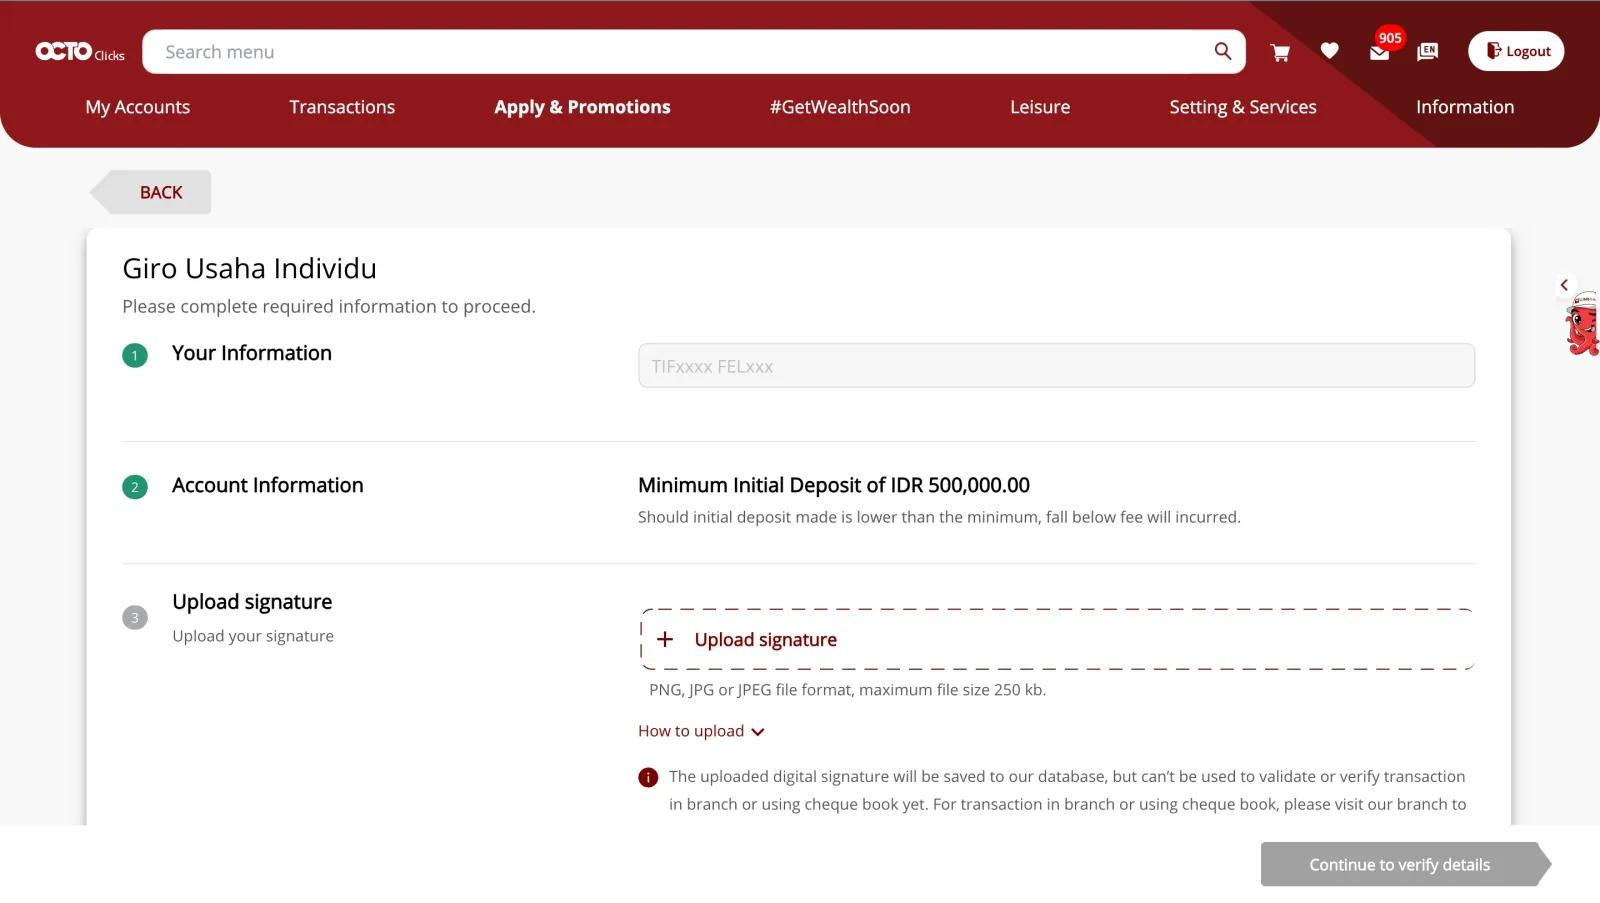
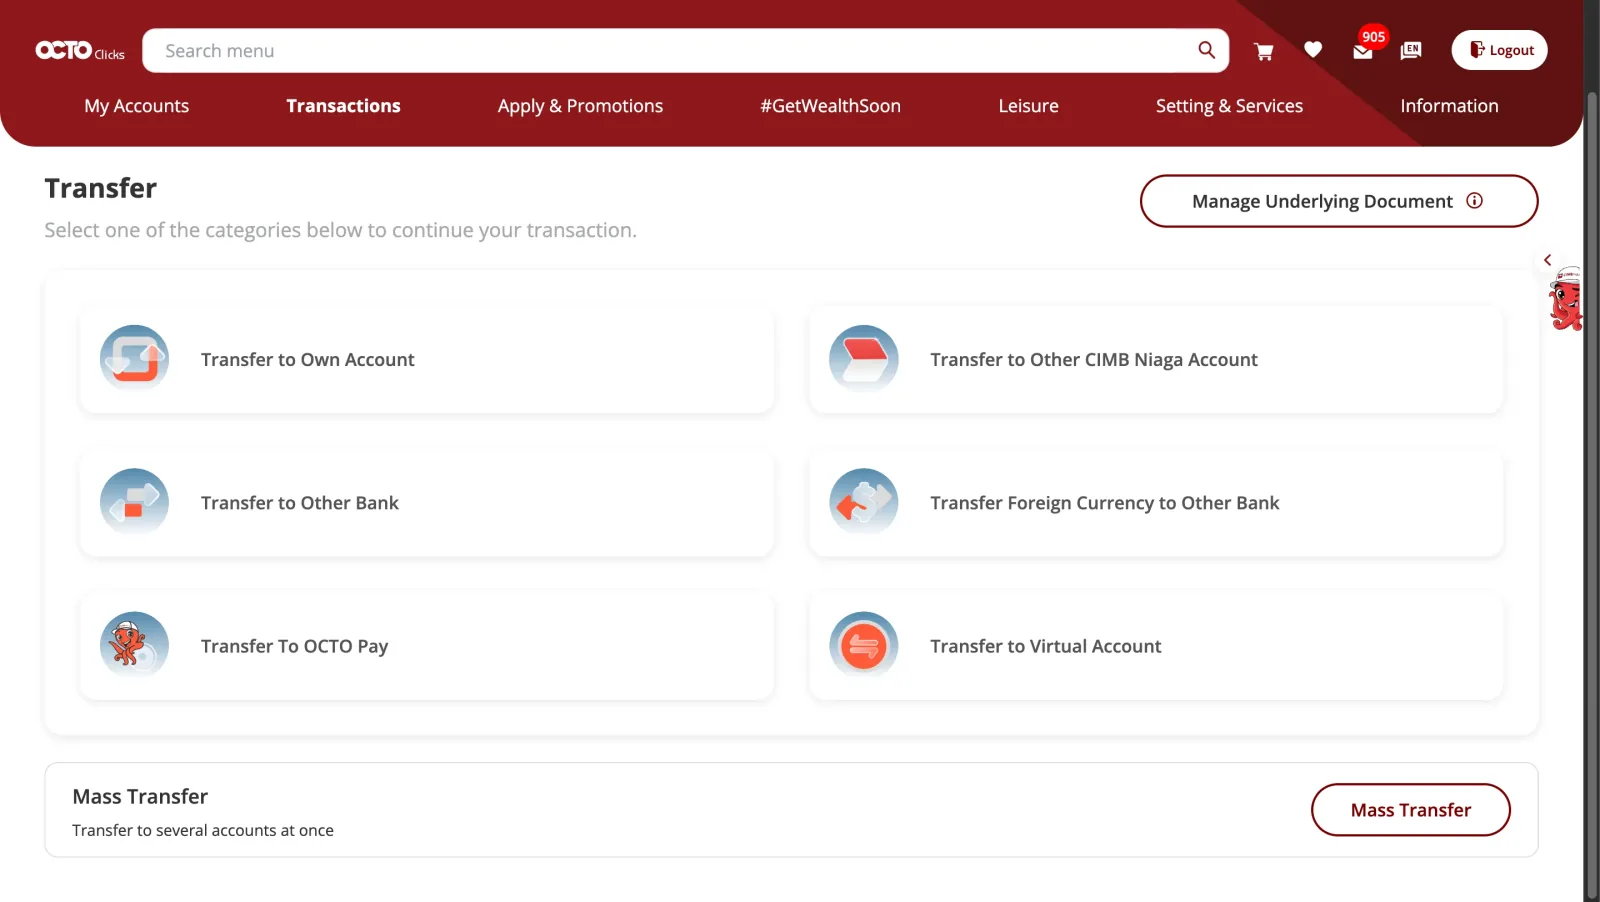
refactor(portfolio): update smartbox stack and reorder cimb assets

diff --git a/data/portfolio-data.js b/data/portfolio-data.js
@@ -70,9 +70,7 @@
         gallery: [
           'assets/cimb/ci1.webp',
           'assets/cimb/ci2.webp',
-          'assets/cimb/ci3.webp',
-          'assets/cimb/ci4.webp',
-          'assets/cimb/ci5.webp'
+          'assets/cimb/ci3.webp'
         ]
       },
       {
@@ -103,7 +101,7 @@
         description:
           'Revamp of the company profile with a modern design and seamless integration to Strapi for dynamic content management.',
         year: '2025',
-        stack: 'React Native • Flutter • TypeScript • WebSockets • Node.js',
+        stack: 'Next.js • TypeScript • Tailwind CSS.',
         linkUrl: 'https://smartbox.build',
         image: 'assets/smartbox/sm1.webp',
         imageWidth: 1600,
